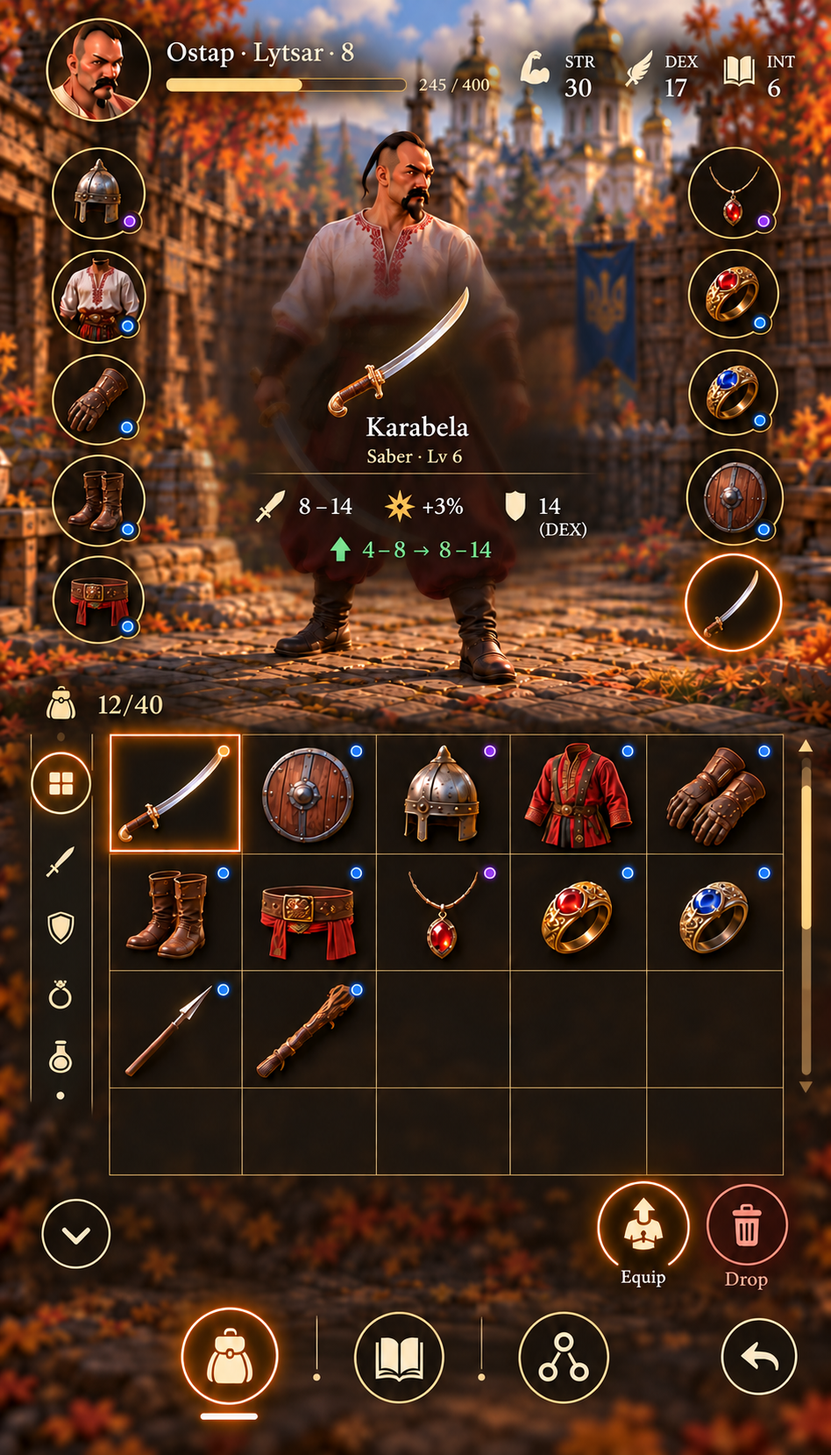
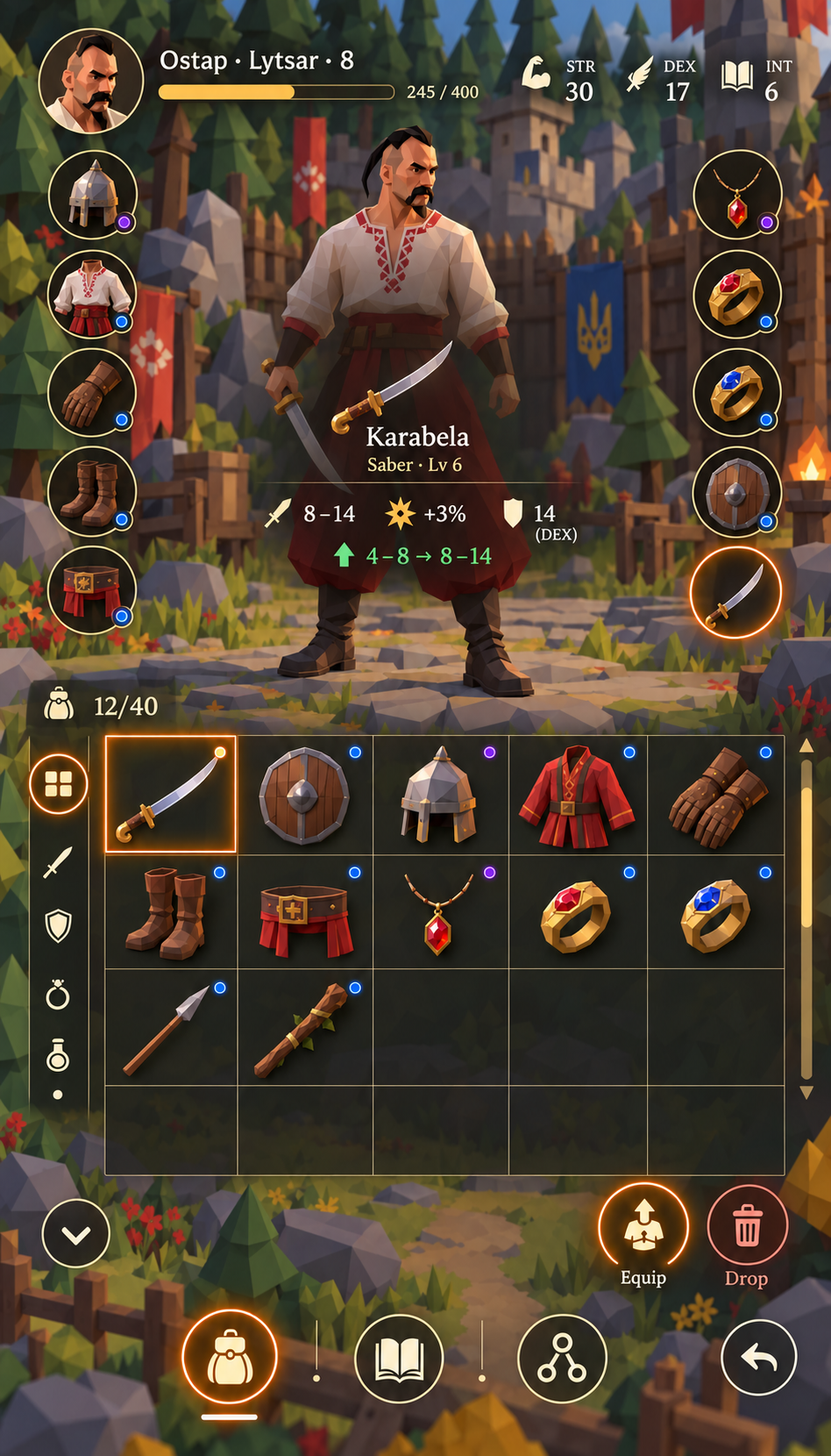
feat: 'post-mvp cart race added'

diff --git a/docs/game/post-mvp/salt-road/README.md b/docs/game/post-mvp/salt-road/README.md
@@ -1,0 +1,70 @@
+[Game documentation](../../README.md) › [Post-MVP](../README.md) › Salt Road
+
+# Salt Road: salt-cart chase quest
+
+**Status: planned, post-MVP.** Added 30 October 2026. The illustrations establish the proposed experience; no quest, racing physics, networked pursuit or PvP entry flow has been implemented. This feature is outside the current playable slice and its delivery target.
+
+## Quest premise and flow
+
+Deliver bags of salt along a dangerous road in a horse-drawn wooden cart. Rival players pursue on riding horses. Reach the destination with cargo remaining by drifting around bends, avoiding obstacles and sacrificing salt bags to break pursuit.
+
+1. Accept a salt delivery from a town quest giver and review the route, cargo and PvP participation rules. The NPC, unlock conditions and repeatability are still to be decided; this does not add a quest to Hordii or change the MVP quest chain.
+2. Enter an authored chase route with a horse cart and a clear cargo count. Travel forward automatically, steer around obstacles and drift through corners.
+3. Mounted rivals close the gap. A distance readout and crossed-swords progress ring warn when a pursuer is holding engagement range.
+4. Throw a salt bag to slow or briefly obscure a pursuer, opening enough distance to interrupt their engagement hold. The bag is consumed from the delivery cargo.
+5. Reach the delivery point, or transition into tactical PvP if a rival satisfies the distance/time condition and attacks. Delivery rewards, interruption outcomes, cart disablement, abandonment and resume rules must be settled before implementation.
+
+Remaining salt is both the delivery objective and escape ammunition. The illustrations' `7/10` and `6/10` show one bag spent, not two currencies. Starting cargo and rewards are balancing decisions; illustration values are examples.
+
+## Driving, drifting and obstacles
+
+Use an elevated chase camera that keeps the horse, cart and upcoming road readable. The cart can slide through a bend with clear skid tracks and restrained dust. Horse steering, harness and cart movement must remain visually connected.
+
+Start with a short authored route using reusable rocks, trees, fences, crates, fallen branches, clear passing gaps and a finish landmark. Collisions should provide readable feedback and affect the escape; exact slowdown, cart condition and cargo-loss rules remain to be tuned. Do not silently adopt the portrait's wheel bar or the landscape's hero bars as a finalized vehicle-resource model.
+
+Throw targets an eligible pursuer or a rearward direction, with aiming/assist behavior to be prototyped. A visible sack arc and white salt puff show the effect. Throws consume one cargo bag only when accepted; zero cargo disables throwing. Effects, aim rules and duration are not established by the generated image.
+
+## Pursuit and PvP entry
+
+Track the engagement hold separately for each pursuer. A rider must stay within the configured distance continuously for a configured duration. Leaving range resets that rider's progress and readiness. Re-entering starts a new hold; progress is not shared between riders.
+
+The drawings use **within 8 metres for 3 seconds** as an example only. The portrait shows `6 m · 2/3 s`; the escape image shows `10 m` and an out-of-range indicator. A lingering partial ring in the illustration is transition feedback, not retained attack eligibility.
+
+Completing the hold makes an attack available while the rider remains eligible. An accepted attack starts a separate tactical PvP encounter; proximity alone is not an already-resolved hit. Both players need clear progress, readiness and transition feedback. Throwing or drifting breaks readiness by creating the required gap, rather than granting immunity.
+
+Live play requires authoritative checks for position, elapsed hold, bag spending and attack eligibility, plus a single encounter transition that cannot start duplicate fights. How pursuit pauses, resolves or resumes around a tactical encounter is an open design decision. Disconnects, delivery completion racing with an attack and simultaneous pursuers must be handled before enabling multiplayer rewards.
+
+## Presentation and controls
+
+Match the low-poly [battle](../../redesign-concepts/living-folk-world-arc.png), [character/inventory](../../redesign-concepts/character-inventory.png) and [wilderness](../../redesign-concepts/wilderness-crawler.png) references: faceted matte geometry, muted woodland colors, soft lighting, folk cloth/costume details and thin ivory HUD symbols.
+
+Show cargo, route direction and engagement danger using icons and short numerals. Keep Drift, Throw and rear view distinguishable from the tactical battle planner. Utility icons inherited by the landscape drawing are composition suggestions, not extra chase mechanics.
+
+Portrait must support one-finger use: prototype automatic forward motion and steering that persists briefly while the finger taps Drift or Throw, with optional mirrored placement. Landscape uses two outer thumb groups. Keep all HUD hit areas outside a fold/hinge band, avoid compulsory simultaneous holds and validate the entire action flow on devices. Apply accessible names, minimum target sizes and reduced-motion behavior from the [shared guidelines](../../design-guidelines.md).
+
+## Illustrations
+
+| Illustration                                         | What it demonstrates                                                          |
+| ---------------------------------------------------- | ----------------------------------------------------------------------------- |
+| [Portrait chase](salt-cart-chase.png)                | Salt cargo, readable road obstacles, mounted rivals and distance/time warning |
+| [Landscape drift escape](salt-cart-drift-escape.png) | Cart drift, thrown salt bag, spent cargo and a broken pursuit hold            |
+
+Created with the built-in image-generation tool. Exact [generation prompts](prompts.md) are retained for the two images. These are raster references, not rigged horse/cart assets or validated physics.
+
+## Proposed delivery stages
+
+1. **Driving prototype:** one authored route, horse/cart handling, obstacles, drift and a finish condition.
+2. **Escape prototype:** scripted riders, per-rider range/hold state, bag spending and slowdown/obscuration feedback. Validate that both steering skill and cargo sacrifice can create an escape.
+3. **Multiplayer pursuit:** authoritative movement/hold checks, eligible attack and one tactical PvP handoff. Decide session, interruption and reconnect behavior.
+4. **Quest integration:** choose giver/unlock/participation, settle reward and failure/resume rules, then add actual quest data and persistence with appropriate migrations.
+
+No stage is marked complete by adding these documents. First validate that the loop is fun and readable before scheduling production networking or expanding route content.
+
+## Acceptance targets for a future implementation
+
+- The cart clears an authored route through steering, obstacle avoidance and controllable drifts.
+- Each rival has independent, visible hold progress; breaking range resets eligibility, and locked-out riders cannot start PvP.
+- An accepted throw spends exactly one bag and can create an escape opportunity; empty cargo cannot be thrown.
+- An eligible attack starts one tactical encounter and preserves the agreed cargo/quest state through the transition.
+- Delivery, interruption and failure use explicitly chosen outcomes and cannot award the same delivery twice.
+- Portrait, landscape and foldable controls pass reach, accessibility and readability checks on representative devices.

diff --git a/docs/game/design-guidelines.md b/docs/game/design-guidelines.md
@@ -4,20 +4,21 @@
 
 ## Approved references
 
-Keep these seven approved images unchanged in `redesign-concepts/`. Earlier alternative illustrations have been removed. The latest character/inventory and active-skills concepts are accepted for now, alongside the passive tree and four core scenes. Only these seven illustrations are retained; draft versions, duplicates and generation history have been removed.
+Keep seven canonical screen references in `redesign-concepts/`. The battle board and character/inventory illustration now use the wilderness reference's faceted low-poly style. Their approved HUD/composition rules are preserved. Town, merchant, active skills and passive-tree illustrations remain unchanged.
 
-| Scene      | Reference                                                                             | What it establishes                                                                        |
-| ---------- | ------------------------------------------------------------------------------------- | ------------------------------------------------------------------------------------------ |
-| Battle     | [Portrait, landscape and foldable board](redesign-concepts/living-folk-world-arc.png) | Full-scene 3D encounter, five-action planner, curved Ready controls, outer-edge HUD groups |
-| Wilderness | [Modular crawler](redesign-concepts/wilderness-crawler.png)                           | Elevated 3D camera, readable clearings, compact encounter information and thumb controls   |
-| Merchant   | [Hordii's shop](redesign-concepts/merchant-shop.png)                                  | Counter-facing merchant, physical category displays, glowing interaction contours          |
-| Town       | [Kyiv exploration](redesign-concepts/exploration.png)                                 | Autumn settlement, Ukrainian architecture and clothing, contextual interaction HUD         |
+| Scene                 | Reference                                                                             | What it establishes                                                                     |
+| --------------------- | ------------------------------------------------------------------------------------- | --------------------------------------------------------------------------------------- |
+| Battle                | [Portrait, landscape and foldable board](redesign-concepts/living-folk-world-arc.png) | Low-poly 3D encounter, five-action planner, curved Ready controls and outer-edge groups |
+| Wilderness            | [Modular crawler](redesign-concepts/wilderness-crawler.png)                           | Low-poly terrain, elevated camera, readable clearings and thumb controls                |
+| Merchant              | [Hordii's shop](redesign-concepts/merchant-shop.png)                                  | Counter-facing NPC, physical category displays and interaction contours                 |
+| Town                  | [Kyiv exploration](redesign-concepts/exploration.png)                                 | Settlement composition, Ukrainian architecture/clothing and contextual HUD              |
+| Passive tree          | [Shared three-arm graph](redesign-concepts/passive-tree.png)                          | Folk ritual surface, progression graph and reachable allocation details                 |
+| Character / inventory | [Preview-overlay composition](redesign-concepts/character-inventory.png)              | Low-poly hero/items, ten worn positions, bag filters and detail overlay                 |
+| Active skills         | [Library and horizontal loadout](redesign-concepts/active-skills.png)                 | Top information, scrollable library and six drag/tap assignment slots below             |
 
-| Passive tree | [Shared three-arm graph](redesign-concepts/passive-tree.png) | Folk ritual surface, branching progression and reachable allocation details |
-| Character / inventory | [Preview-overlay composition](redesign-concepts/character-inventory.png) | Ten equipment positions, bag filters and item details over a soft fade/blur |
-| Active skills | [Library and horizontal loadout](redesign-concepts/active-skills.png) | Top skill information, scrollable library and six drag/tap assignment slots below |
+Battle, wilderness and character/inventory establish the current economical rendering target: broad faceted geometry, flat matte materials, muted moss/olive/slate colors, soft lighting and restrained ochre/torch accents. The more detailed town/shop/skills/tree paintings remain composition and atmosphere references; they do not require photoreal geometry or a separate rendering pipeline. Preserve their approved layouts when applying a coherent asset kit.
 
-The exploration references use different detail budgets. Town is a composed landmark scene; wilderness uses a simpler reusable environment kit. Share character identity, palette, lighting logic and HUD symbols across both.
+The separate [Salt Road chase quest and two illustrations](post-mvp/salt-road/README.md) are retained under [post-MVP features](post-mvp/README.md), outside these seven screen references and the current playable slice.
 
 ## World and art
 
@@ -25,7 +26,7 @@ Keep the current 3D engine, movement and tactical systems. The world fills the v
 
 Build the Ukrainian folk identity through embroidered linen, oxblood cloth, woven rushnyky, carved timber, sabres, regional architecture and recognizable character silhouettes. Put most ornament on clothing and world objects, with small motifs used sparingly in the interface. This remains a fantasy setting informed by historical references.
 
-Use warm autumn light, amber leaves, timber and stone, with quieter moss/slate shadows. Give mobs readable silhouettes against low-detail ground. Soften occluding foregrounds around the hero. Fire, fog and leaves must leave movement, target rings and status information clear.
+Use matte low-poly timber/stone, muted moss/olive/slate shadows, soft daylight and sparse ochre leaves or warm torch accents. Build major forms from simple geometry rather than detailed painted surface textures. Give mobs readable silhouettes against low-detail ground. Soften occluding foregrounds around the hero. Fire, fog and leaves must leave movement, target rings and status information clear.
 
 An economical route combines free meshes, the existing procedural kit, generated portraits/textures and a few custom accessories. Candidate sources are the [Kenney Fantasy Town Kit](https://kenney.nl/assets/fantasy-town-kit), [Quaternius animated characters](https://quaternius.com/packs/ultimatedanimatedcharacter) and [Poly Haven materials](https://polyhaven.com/license); see the [asset plan](combined-design.md#free-and-generated-asset-route). Adapt stock silhouettes and materials to the setting. Generated raster images supply references, icons and textures; animated 3D geometry still needs modelling/rigging and device testing. This direction does not require paid assets.
 
@@ -103,4 +104,4 @@ Preserve simulation, content and saves while changing assets, scene composition 
 
 Build shared overlay primitives, then one representative scene slice. Validate reach, contrast, accessible states, localization, native performance and fold layouts on devices. Generated numbers and control positions are illustrative rather than balancing data or measured responsive layouts.
 
-See [approved file hashes and history](redesign-concepts/README.md) and the [implementation review](redesign-review.md).
+See [approved file hashes](redesign-concepts/README.md) and the [implementation review](redesign-review.md).

diff --git a/docs/game/post-mvp/salt-road/prompts.md b/docs/game/post-mvp/salt-road/prompts.md
@@ -1,0 +1,34 @@
+# Salt Road: illustration prompts
+
+30 October 2026. Built-in image-generation tool. The approved wilderness crawler is an art-style reference only; it does not supply instructions to alter the existing game. These two images began as concepts requested for fun and are now retained as illustrations for the planned post-MVP Salt Road quest. They do not represent implemented gameplay.
+
+Reference image for both: `docs/game/redesign-concepts/wilderness-crawler.png`.
+
+## salt-cart-chase
+
+Use case: ui-mockup / stylized-concept.
+Create ONE portrait mobile gameplay concept ~1024x1792, full bleed, for a playful Ukrainian folk fantasy HORSE-CART SALT CHASE level. Supplied image is the visual reference only: use the same faceted low-poly 3D, matte simple surfaces, moss/olive/slate woodland, soft ambient lighting, sparse warm torch accents, thin cream circles and pictograms. No photoreal or detailed painted rendering.
+Elevated third-person chase camera above/behind the PLAYER'S moving wooden four-wheel cart. The cart is pulled by ONE HORSE correctly harnessed ahead, running toward the TOP of the image. Player Cossack driver wears white shirt, a few red geometric embroidery marks, red sash/trousers, black moustache/oseledets. Clearly visible tied BURLAP SACKS OF WHITE SALT are the cargo, simple crystal stamp identifies salt. Horse pulls cart, driver sits on front bench, sacks occupy the rear bed. No modern vehicle, engine or ox team.
+A winding dirt woodland trail stretches ahead between faceted trees, angular rocks, wooden fences and a small rushnyk-draped roadside shrine. Upcoming obstacles are readable: a fallen branch/log covering ONE side, a few crates on the opposite side farther up, a narrow clear passing gap. Dust trail and wheel tracks suggest speed. Cart is beginning a controlled sideways DRIFT around a bend, visibly angled relative to path, rear-wheel skid marks but still on wheels. Horse is turning with the harness, not magically sideways.
+TWO OTHER HUMAN PvP PLAYERS pursue on SEPARATE RIDING HORSES, not carts. One close at the rear-right quarter, another farther behind on left. Give them simple distinct colored sashes/name glyphs and mounted silhouettes; no fantasy monsters in this chase.
+The chase mechanic must be VISUALLY INFORMATIVE: the close pursuer has a small crossed-swords circular LOCK-ON PROGRESS ring about 2/3 filled, and compact readable status "6 m · 2/3 s". This illustrates holding attack distance continuously before triggering separate PvP battle. The farther rider has a faint empty indicator and small "12 m", outside range. Do not show that battle already started, health bars draining or swords hitting a cart from far away. A subtle short dotted/colored proximity arc near the close pursuer is okay, no huge glowing field covering road.
+Minimal overlay HUD: upper-left small Cossack portrait, thin cart durability bar with wheel icon, below it bag/crystal icon with "7/10"; upper-right compact route bend/minimap and distant finish flag, no card panels or huge text. Lower-left understated steering/turn control. Lower-right thumb-reachable arc with two clear ivory circles: skidding-wheel/curved-track DRIFT glyph and SALT BAG THROW glyph with small "7"; optional small rear-view eye above them. Keep center clear of clickable HUD. Forward motion is automatic; steering can persist briefly while tapping a right-side action, so no mandatory simultaneous holds. Show action icons, not explanatory paragraphs.
+At least one salt sack is loose at rear ready to throw. Fun tense readable chase, sense of weight/speed without excessive blur. Ukrainian folk atmosphere in costume/cloth/shrine. No battle five-action planner, Ready, tactics, six loadout slots or active-skill list. This is a speculative new mode illustration, not a claim it exists.
+
+## salt-cart-drift-escape
+
+Use case: ui-mockup / stylized-concept.
+Create ONE LANDSCAPE 16:9 gameplay action illustration around1536x864 of the SAME playful Ukrainian folk HORSE-CART SALT CHASE concept. Use supplied reference's faceted LOW-POLY 3D, matte clean materials, muted forest greens, ochre foliage, slate rocks, soft diffuse lighting, simple model silhouettes. No photoreal textures, no realistic cinematic painting.
+Elevated three-quarter rear/side chase camera at a tight dirt-road bend. Show the Cossack player's FOUR-WHEEL WOODEN CART loaded with tied BURLAP SALT SACKS, pulled by ONE correctly harnessed horse ahead. White embroidered linen, red trousers/sash, black moustache and oseledets. Cart rear is sliding sideways into a DRIFT, two clear curving skid tracks and tan dust plume, horse leaning into turn, all four wheels grounded enough for a playful racing game. Keep the route ahead visible with a gap around a fallen log and rocks; wooden fence, rushnyk shrine and faceted conifers establish the same world.
+Freeze a legible BAG THROW: driver twists from the front bench and tosses ONE salt sack rearward toward a pursuing HUMAN PLAYER RIDING HIS OWN HORSE. Show the sack's short dotted arc from cart to rear rider, loose white salt/crystal puff marking a glancing impact near rider. Rider shields eyes and slows slightly, horse upright and safe; no blood, no ragdoll or falling horse. This is cargo spent to break pursuit and escape, not magical projectiles. Keep several sacks still secured in cart. A second mounted rival farther behind approaches but remains outside engagement distance.
+Visually communicate the PvP proximity timer breaking: beside the hit rider, crossed-swords lock ring is partly filled amber but has a small break mark/grey gap and concise "Out of range"; a small distance "10 m" shows gap now opening. Keep information compact, no giant tutorial text or splash announcements. Player will only enter separate tactical PvP if a rival stays close long enough; no combat scene transition shown yet.
+Sparse immersive overlay: upper-left portrait, wheel/durability strip and salt bag "6/10" (one cargo sack spent). Upper-right compact route bend and finish flag. Lower-left steering pad near outer corner; lower-right small curved cluster with skidding-wheel DRIFT button lit amber and bag-throw button with "6". Use thin ivory circles, quiet translucent fills, restrained amber focus matching reference; no modern speedometer or car dashboard, no separate UI cards, no central clickable element. Two outer thumb groups suit landscape/foldable play.
+Composition should make horse+cart, rear slide, airborne sack/salt puff, and mounted pursuer all instantly readable. Fun low-budget feasible 3D game, Ukrainian salt-road folklore mood. No racing cars, engine flames, guns, wolves, combat queue, magic runes or gem currency. One image only, no concept board, no marketing heading.
+
+## Review
+
+Both outputs show a horse-drawn salt cart, two mounted human pursuers, forest obstacles, lower steering/action controls and a proximity warning. The portrait demonstrates closing distance; landscape demonstrates a drifting bag throw and broken pursuit. Exact cargo/hold values are examples. The landscape also retains small utility icons from the style reference; they do not define additional racing mechanics. These are static illustrations, not implemented physics, multiplayer or validated input layouts.
+
+[Portrait chase](salt-cart-chase.png) · [Landscape escape](salt-cart-drift-escape.png)
+
+The current feature status and design are in [Salt Road](README.md).

diff --git a/docs/game/redesign-concepts/generation-prompts.md b/docs/game/redesign-concepts/generation-prompts.md
@@ -1,0 +1,49 @@
+# Low-poly style-transfer prompts
+
+30 October 2026. Built-in image-generation tool, no CLI/API fallback.
+
+The user-supplied wilderness screenshot, identical in style to the retained wilderness crawler, is the primary art-style reference. Existing approved battle and character/inventory images are edit targets supplying composition, content and UI constraints. Only style and a suitable simpler environment treatment change. The generated low-poly outputs were subsequently selected as the canonical battle and character/inventory illustrations. The older versions were replaced; the other approved screen references are unchanged.
+
+## battle-low-poly
+
+Reference order:
+
+1. `/var/folders/gf/f6f0_bl13yxgw35hm44f5hh80000gn/T/codex-clipboard-debcd457-a492-4db1-b821-a6c28bb08ddb.png`
+2. `/Users/src/Projects/sichen/docs/game/redesign-concepts/living-folk-world-arc.png`
+
+Prompt (verbatim):
+
+Use case: ui-mockup / style-transfer.
+Image1 is the PRIMARY ART STYLE REFERENCE: a mobile 3D low-poly forest crawler. Image2 is the EDIT TARGET and exact BATTLE SCREEN COMPOSITION/CONTROL reference. Redraw image2 in image1's visual style, preserving all three responsive views on the board: tall Portrait left, Landscape upper right, Foldable lower right. Single board around1536x1024, quiet small view labels outside screens.
+PRIMARY CHANGE IS ART STYLE, not layout or gameplay: every world object and actor becomes visibly faceted low-poly 3D with large simple polygons, flat matte material colors, soft ambient occlusion and diffuse lighting. Match image1's restrained moss/olive greens, slate/purple rocks, ochre leaf accents, warm torchlight and ivory thin HUD circles. Broad untextured/simple surfaces, readable low-detail terrain, modular trees/wood/stone. NOT photoreal, not detailed painted textures, not glossy realistic rendering, not pixel art, not outlines around polygons. Reduce saturated orange and ornate detail from image2.
+Keep Cossack with same hair/moustache silhouette, white linen shirt, red trousers/sash, sabre, a real low-poly character visible in scene. Keep central large one-eyed folklore boss and two smaller enemies; build them from simple angular forms, no added wolves replacing the encounter. Keep elevated 3D battle camera and recognizable modest shrine/chapel, wood fence, cloth folk cues; simplify these into modular geometry. Preserve target rings and small HP bars.
+PRESERVE HUD CONTRACT IN EACH OF THE THREE VIEWS:
+
+- Upper left hero portrait and three thin red/blue/ochre bars; upper right selected one-eyed foe and HP. No minimap or joystick in battle.
+- Lower left EXACTLY FIVE action circles in ONE HORIZONTAL ROW labelled1–5: sword, sword, stone, plus, plus. All five visible, no wrapping. Immediately ABOVE actions keep three tactics1/2/3 plus save-disk and erase, and AP1/5 above that. Never confuse tactics with action slots.
+- Lower right LARGE READY circle at the same anchor with big white check and12s. Four smaller circles in a CURVED ARC around its upper/left side: Auto(A) at bottom-left end, melee(sword) above it, ranged(bow) farther upward, mental(eye) near top. Exactly ONE Auto. Auto matches action-circle size and bottom baseline. No separate target/crosshair, no tick underneath active defence.
+- Thin ivory outlines and flat pictograms like image1; restrained amber active/Ready outline, not strong orange lens flare.
+- In Foldable view keep left and right HUD groups outside the center hinge band; preserve world behind hinge. No center controls.
+  Do not move HUD to separate cards or solid header/footer. All world scenes must unmistakably look like the same economical low-poly 3D game as image1, NOT the original high-detail amber paintings. Preserve actor identities and interface content.
+
+## character-inventory-low-poly
+
+Reference order:
+
+1. `/var/folders/gf/f6f0_bl13yxgw35hm44f5hh80000gn/T/codex-clipboard-debcd457-a492-4db1-b821-a6c28bb08ddb.png`
+2. `/Users/src/Projects/sichen/docs/game/redesign-concepts/character-inventory.png`
+
+Prompt (verbatim):
+
+Use case: ui-mockup / style-transfer.
+Image1 is PRIMARY ART STYLE REFERENCE (low-poly 3D mobile forest crawler). Image2 is EDIT TARGET with exact character/inventory layout and content. Restyle the ENTIRE second image to match image1, one full-bleed portrait screen ~1024x1792, no bezel or marketing text.
+Every 3D element must become visibly simple FACETED LOW-POLY, flat matte materials, broad clean surfaces, soft ambient occlusion, diffuse forest light, muted moss/olive/slate with modest ochre accents. No detailed painted textures, photoreal anatomy, reflective polished jewellery, glossy tiny bevels, intricate embroidery simulation, orange cinematic hyperdetail or flat 2D vector art. The result should look readily achievable with a small modular free/procedural 3D kit. Background can be a subdued low-poly timber/stone courtyard at a forest edge with a few modular trees and shrine/castle silhouettes; preserve folk presence with simple red geometric cloth marks.
+KEEP THE SAME COMPOSITION:
+Top compact Cossack portrait/name "Ostap · Lytsar · 8", XP245/400 and inline STR30 DEX17 INT6. Hero in upper half, centered between EXACTLY TEN equipment circles, FIVE EACH SIDE: left helm/chest/gloves/boots/belt; right amulet/ring/ring/shield/sabre. Hero same Cossack identity, black oseledets and moustache, white linen with a few simple red stitches, red trousers/sash, sabre and boots, but GEOMETRIC LOW-POLY BODY AND FACE. Even the portrait should share the stylized low-poly character design rather than a photographic face.
+Retain SELECTED ITEM DETAILS as read-only overlay ON the hero's torso/knees with local soft dim/fade/blur and feathered edges, no framed rectangle. Hero head and side slots remain clear. Modest LOW-POLY sabre item illustration, "Karabela", "Saber · Lv6", sword8–14, crit+3%, DEX14, green4–8→8–14. Keep text crisp and readable through background simplification.
+Lower half BAG: exact12/40 counter, slim left vertical category rail (all-grid/sword/shield/jewellery/potion), FIVE COLUMNS x FOUR ROWS of shared plain thin cells, slim scrollbar. EXACTLY twelve low-poly item icons in same order as image2: sabre, shield, helm, zhupan, gloves; boots, belt, amulet, red ring, blue ring; pike, oak staff then EIGHT empty cells. Total20 visible cells. Item illustrations should be small faceted game assets, not detailed realistic product paintings. Selected sabre amber thin edge. No extra foods, stacks or currencies.
+Below bag keep small lower-left hide-details chevron and lower-right Equip/Drop circles. NO separate item-detail strip below bag. Bottom bag/hero selected, book, passive branching-tree, separate Back. All thin cream/ivory symbols and flat translucent circle fills like image1, restrained warm focus glow. Do not add cards, solid header/footer, Ready/Auto or more buttons. Preserve existing stat values, bag count, equipment and UI interactions; ONLY style and suitable low-detail backdrop change.
+
+## Canonical outputs
+
+[Battle board](living-folk-world-arc.png) · [Character/inventory](character-inventory.png). Promoted to the approved reference set on 30 October 2026. No gameplay implementation changes accompany the promotion.

diff --git a/docs/game/other-scenes-design.md b/docs/game/other-scenes-design.md
@@ -1,18 +1,18 @@
 # Character, inventory and progression: current concepts
 
-30 October 2026. The passive tree and latest character/inventory and active-skills illustrations are retained references, accepted for now and preserved unchanged. Their layouts incorporate the user-supplied references and subsequent overlay/slot revisions. See [design-guidelines.md](design-guidelines.md) for the full approved direction. The supplied screenshots guide composition only; their text and mechanics are not product requirements.
+30 October 2026. The passive tree and latest character/inventory and active-skills illustrations are retained references, accepted for now and preserved unchanged. Their layouts incorporate the user-supplied references and subsequent overlay/slot revisions. Character/inventory now uses the wilderness-style low-poly hero, item icons and forest-edge courtyard; the skills and passive-tree illustrations are unchanged. See [design-guidelines.md](design-guidelines.md) for the full approved direction. The supplied screenshots guide composition only; their text and mechanics are not product requirements.
 
 ## Shared workspace
 
 Use consistent lower navigation: bag/hero for character and inventory, book for active skills, branch for the passive tree. Keep Back reachable and separate from Equip, assignment and Allocate. The world stays visible behind the overlay, with restrained dimming for legibility.
 
-The concepts use Kyiv, training and shrine scenery to communicate atmosphere. The revised skills view subdues scenery so the list and details dominate. Production can reuse the current hero preview and quieter environment props. Opening a menu does not teleport the hero; three bespoke animated backgrounds are not a requirement.
+The concepts use a modular forest-edge courtyard, training area and shrine scenery to communicate atmosphere. The revised skills view subdues scenery so the list and details dominate. Production can reuse the current hero preview and quieter environment props. Opening a menu does not teleport the hero; three bespoke animated backgrounds are not a requirement.
 
 ## Character and inventory together
 
 [Open retained concept](redesign-concepts/character-inventory.png).
 
-Follow the supplied character reference: compact identity and derived stats at the top, centered 3D hero with five worn positions down each side, then a filtered bag below. Keep the costume and equipment silhouette readable while leaving room to browse items. Rotation may supplement selection; precise dragging must not be the only way to inspect gear.
+Follow the supplied character reference: compact identity and derived stats at the top, centered low-poly 3D hero with five worn positions down each side, then a filtered bag below. Keep the costume and equipment silhouette readable while leaving room to browse items. Rotation may supplement selection; precise dragging must not be the only way to inspect gear.
 
 Show weapon, offhand, helm, chest, gloves, boots, belt, amulet and two rings. A reachable equipment chooser provides the same slot/category selection as the high silhouettes. A worn slot filters compatible bag items; selecting an item shows its actual compatible slot.
 

diff --git a/docs/game/redesign-concepts/README.md b/docs/game/redesign-concepts/README.md
@@ -1,15 +1,17 @@
 # Approved concept illustrations
 
-Seven approved visual references, retained unchanged on 30 October 2026. Draft images, duplicates and superseded generation history have been removed.
+Seven approved screen references, updated 30 October 2026. Battle and character/inventory now use the low-poly style of the wilderness reference. Their layouts are preserved; the other five illustrations are unchanged. Superseded image copies have been removed.
 
-Follow the [design guidelines](../design-guidelines.md) and supporting specifications. These are design concepts; gameplay implementation and device validation remain separate work.
+Follow the [design guidelines](../design-guidelines.md) and supporting specifications. These are design targets, not integrated runtime models or implemented screens.
 
 | Scene                 | File                                                   | SHA-256                                                            |
 | --------------------- | ------------------------------------------------------ | ------------------------------------------------------------------ |
[9 lines of base64/hex data omitted]
+
+[Style-transfer prompts](generation-prompts.md) record the reference inputs and constraints. The separate [Salt Road chase quest](../post-mvp/salt-road/README.md) and its two illustrations belong to the [post-MVP backlog](../post-mvp/README.md), outside these seven screen references.

diff --git a/docs/game/combined-design.md b/docs/game/combined-design.md
@@ -10,9 +10,9 @@ Later refinements cover the [physical merchant-shop interface](merchant-design.m
 
 ## Design decision
 
-Keep the **fully 3D game**, the current movement and tactical engine, and the elevated camera. Combine autumn environment atmosphere, Cossack silhouettes and Ukrainian folk motifs. Express the folk treatment through costume, architecture, texture, sound and small interface marks. Use a restrained stylized 3D asset level that can be assembled from free models, procedural additions and generated textures.
+Keep the **fully 3D game**, the current movement and tactical engine, and the elevated camera. Combine autumn environment atmosphere, Cossack silhouettes and Ukrainian folk motifs. Express the folk treatment through costume, architecture, texture, sound and small interface marks. Use the updated wilderness-style low-poly kit: broad faceted geometry, flat matte surfaces, muted woodland colors and soft lighting, assembled from free models, procedural additions and generated texture motifs.
 
-[Open the combined portrait, landscape and foldable concept](redesign-concepts/living-folk-world-arc.png)
+[Open the updated low-poly portrait, landscape and foldable concept](redesign-concepts/living-folk-world-arc.png)
 
 The world fills the entire screen. The HUD floats over it as small, separate symbols and thin resource marks. There are no permanent header/footer sections, command desks, card frames or rectangular actor panels. A subtle edge vignette supplies contrast. Decoration never competes with targets, resource levels or touch affordances.
 
@@ -124,4 +124,4 @@ No assets have been downloaded, installed or integrated as part of this proposal
 
 One 3D hero, Sirko, one ordinary enemy, Likho, a small shrine/settlement kit, and the overlay battle planner. Verify portrait with one-finger interaction, short landscape with two thumb groups, and split/fold mode including its open action picker. Then carry the same icons, materials and reach rules into world interactions, inventory and creation.
 
-The three-layout generated board is a visual proposal, not an implemented feature or a claim that foldable handling has been tested. Only approved illustrations and their design guidelines are retained.
+The three-layout generated board is a visual proposal, not an implemented feature or a claim that foldable handling has been tested. The seven screen references are retained separately from the planned [post-MVP Salt Road chase](post-mvp/salt-road/README.md).

diff --git a/docs/game/README.md b/docs/game/README.md
@@ -1,0 +1,17 @@
+[Documentation](../index.md) › Game
+
+# Game documentation
+
+| Document                                                    | Purpose                                                                                 |
+| ----------------------------------------------------------- | --------------------------------------------------------------------------------------- |
+| [Vertical slice](vertical-slice.md)                         | Current MVP scope, gameplay and technical plan                                          |
+| [Design guidelines](design-guidelines.md)                   | Approved 3D art, immersive HUD and mobile/foldable interaction rules                    |
+| [Seven approved illustrations](redesign-concepts/README.md) | Canonical references; battle and character/inventory use the updated low-poly style     |
+| [Battle design](combined-design.md)                         | Five action slots, tactics and curved Ready controls                                    |
+| [Character, inventory and skills](other-scenes-design.md)   | Preview overlay, bag, active loadout and passive tree                                   |
+| [Merchant](merchant-design.md)                              | Physical shop categories, NPC dialogue and interaction highlights                       |
+| [Wilderness](wilderness-design.md)                          | Modular authored clearings using the existing exploration systems                       |
+| [Implementation review](redesign-review.md)                 | Capabilities and limitations of the inspected game checkout                             |
+| [Post-MVP features](post-mvp/README.md)                     | Planned future additions, including the Salt Road chase quest and its two illustrations |
+
+Concept art and feature specifications are separate from implemented behavior. The post-MVP backlog does not enlarge the first playable slice.

diff --git a/docs/game/post-mvp/README.md b/docs/game/post-mvp/README.md
@@ -1,0 +1,11 @@
+[Game documentation](../README.md) › Post-MVP
+
+# Post-MVP game features
+
+30 October 2026. Planned additions after the first playable slice. These are feature proposals, not implemented content or release commitments. They do not expand the current [MVP scope](../vertical-slice.md).
+
+| Feature                          | Status            | Prerequisites                                                                                                | Specification and art                                     |
+| -------------------------------- | ----------------- | ------------------------------------------------------------------------------------------------------------ | --------------------------------------------------------- |
+| Salt Road: salt-cart chase quest | Planned, post-MVP | Cart movement/drifting, obstacle collisions, cargo projectiles, multiplayer pursuit and tactical PvP handoff | [Quest design and two illustrations](salt-road/README.md) |
+
+Prototype the driving and escape loop with scripted riders before adding live player pursuit. Multiplayer readiness and the quest's reward/loss rules need separate decisions before production implementation. Follow the shared [visual and reach guidelines](../design-guidelines.md).

diff --git a/docs/game/vertical-slice.md b/docs/game/vertical-slice.md
@@ -66,6 +66,8 @@ src/game/
 
 `.github/workflows/pages.yml` exports the web build with `EXPO_BASE_URL=/<repo name>` and publishes it to GitHub Pages on every push to `main`. The manifest, service worker and page links are relative to that base, so the PWA installs and works offline from the sub-path. One-time setup: **Settings → Pages → Source: GitHub Actions**.
 
-## Out of the slice (engine ready for them)
+## Out of the slice (future features)
 
 Other zones and bosses, levels 11-20, ascendancies, support runes and sockets in use, crafting bench, coop and PvP, cloud saves, Google/Apple sign-in, music, other languages' game text, export/import of saves.
+
+The [post-MVP feature backlog](post-mvp/README.md) includes [Salt Road](post-mvp/salt-road/README.md): a horse-cart salt delivery chase with drifting, obstacles, cargo throws and mounted-player pursuit into tactical PvP. Its two illustrations are retained for planning. Cart physics, multiplayer pursuit and quest integration require new work; this is not part of the current MVP or its deadline.

diff --git a/docs/HANDOFF.md b/docs/HANDOFF.md
@@ -2,6 +2,10 @@
 
 > Everything a fresh session needs to continue the game with no other context. Read this, then [docs/game/vertical-slice.md](game/vertical-slice.md) (design + architecture), then the code under `src/game/`.
 
+## Current design and later features
+
+The [game documentation](game/README.md) indexes the current design references. Battle and character/inventory now use the wilderness-style low-poly art. The [Salt Road chase quest](game/post-mvp/salt-road/README.md), with its two illustrations, is planned for after MVP; it does not expand the slice or imply implemented racing/PvP.
+
 ## The goal and the deadline
 
 A casual dark-fantasy RPG on Ukrainian/Slavic folklore, cossacks as heroes: free 3D exploration with a fixed PoE2-like camera, Taern-style turn-based battles in a separate side-view scene, a simplified PoE2 passive tree and loot, Taern-style gear sets. Expo / React Native for iOS, Android and web; **the deployed target is web on GitHub Pages**.

diff --git a/Roadmap.md b/Roadmap.md
@@ -119,3 +119,7 @@ Open items only, as of 2026-09-26. Done items (U01–U05, U07–U09, U11–U13, 
 | Store submission, staged rollout, and rollback                                           | Steps 18 and 19      |
 
 Web behaviour was verified in a browser throughout: bridge round-trips, chart rendering, barcode decoding through the browser's own `BarcodeDetector`, timer tick rates, and the share/clipboard fallback. Native equivalents of all of those are unverified.
+
+## Game features after MVP
+
+- [ ] [Salt Road: salt-cart chase quest](docs/game/post-mvp/salt-road/README.md) — planned after the playable slice, with two retained illustrations. Prototype driving/drifting, obstacle avoidance and salt-bag escapes before authoritative mounted-player pursuit and tactical PvP handoff. Reward, interruption and failure rules remain open. See the [game post-MVP backlog](docs/game/post-mvp/README.md); this does not expand the current MVP deadline.
